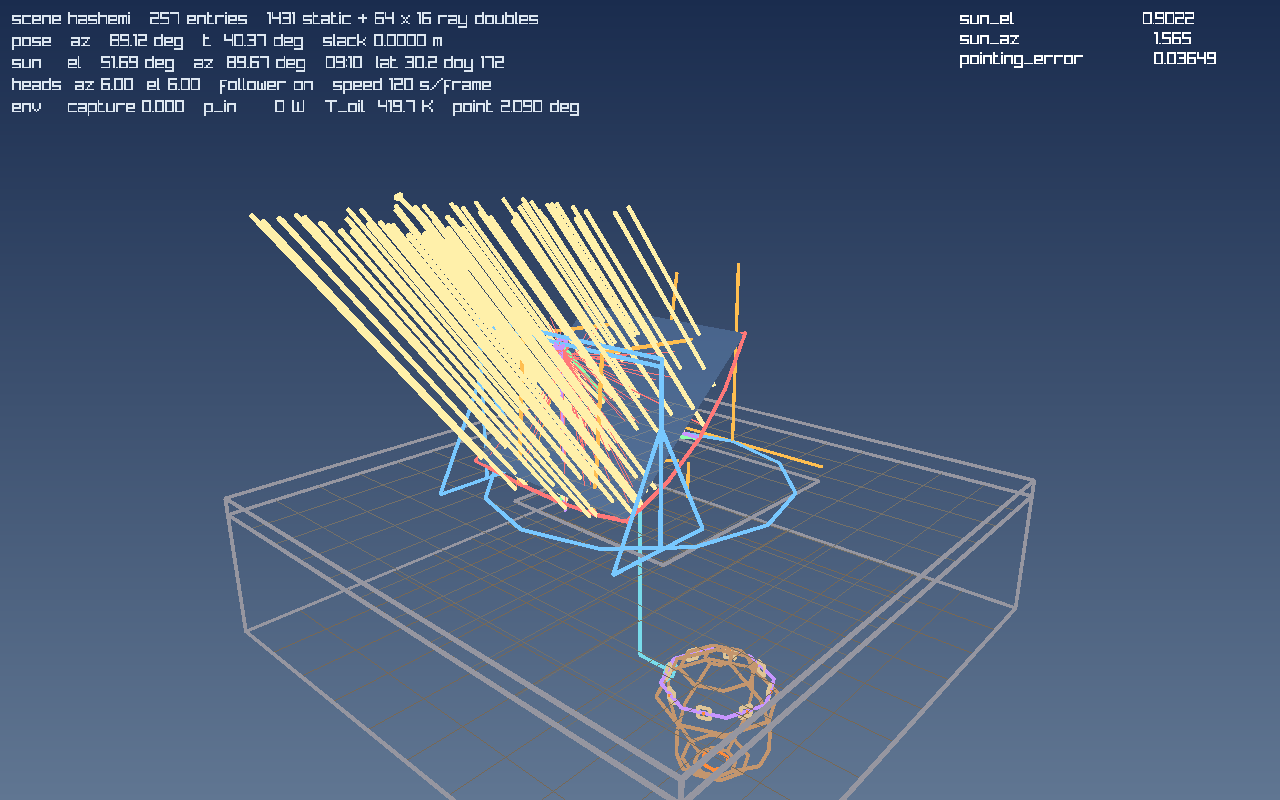
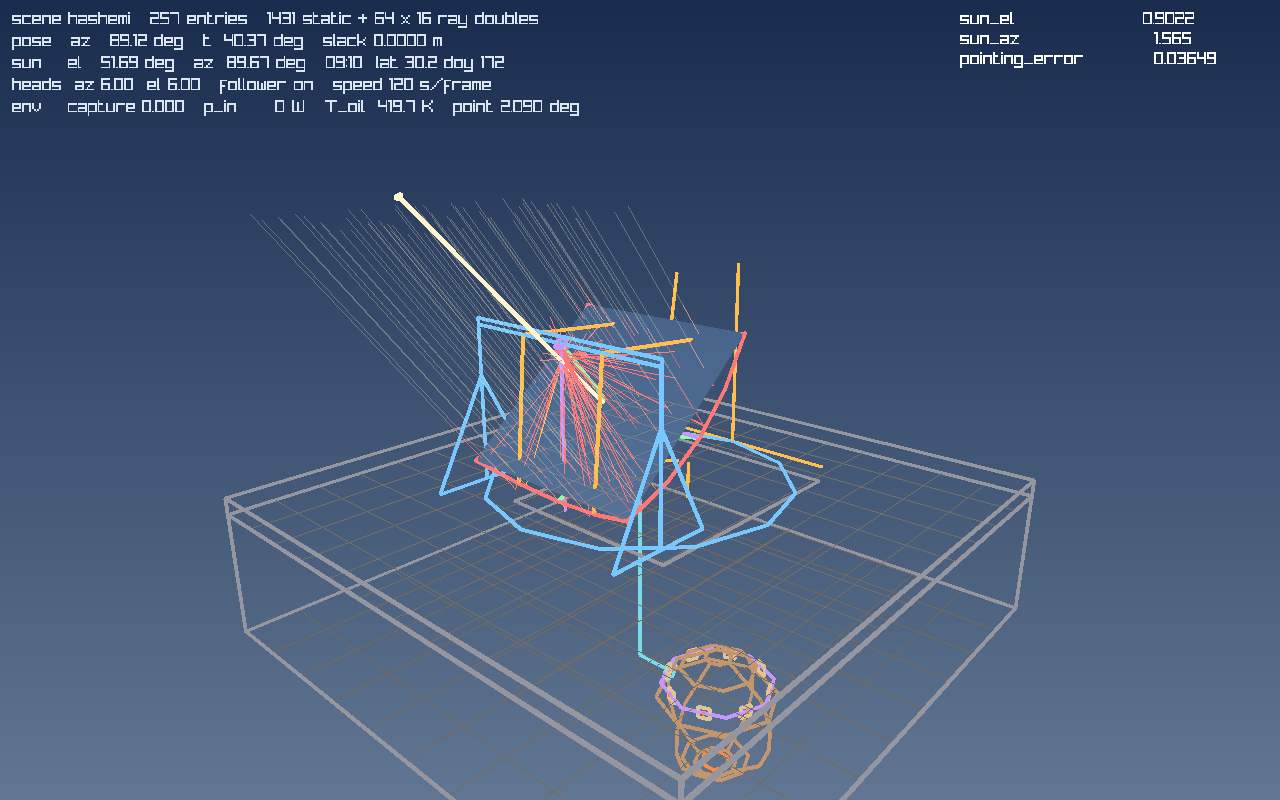
The sunlight is drawn as light: pale hairlines at low alpha, not solid tubes

Changed region(s): [[0.1875, 0.25, 0.5625, 0.6562]]

diff --git a/tutorials/hashemi_ccc/render/scene_draw.py b/tutorials/hashemi_ccc/render/scene_draw.py
@@ -20,7 +20,7 @@ PALETTE = [
     (196, 150, 110),   # 8  the pit's clay
     (255, 140, 60),    # 9  the hearth and the belt's nodes
     (150, 150, 160),   # 10 masonry: the deck, the parapet, the shadow
-    (255, 240, 170),   # 11 the sun, its rays
+    (255, 246, 205),   # 11 the sun, its rays (pale: drawn at low alpha, see draw())
     (222, 196, 150),   # 12 the roti on the wall
     (120, 220, 235),   # 13 the tunnel and the duct's mouth
 ]
@@ -244,6 +244,12 @@ class SceneWindow:
                 if k == KIND_POINT:
                     rl.draw_sphere(self.v3(r[0:3]), 0.035, col)
                 elif k == KIND_SEGMENT:
+                    # the sunlight is drawn as light, not as structure: a hairline at low alpha,
+                    # so sixty-four parallel legs read as a beam and never bury the machine
+                    if e["label"].startswith("sky") or e["label"].startswith("sun_ray"):
+                        rl.draw_line_3d(self.v3(r[0:3]), self.v3(r[3:6]),
+                                        rl.Color(col.r, col.g, col.b, 70))
+                        continue
                     # a member: a thin cylinder, so the machine reads as parts rather than
                     # hairlines.  Its radius follows the camera, because the composed scene is
                     # seen from three times as far as the machine-only one was and a 12 mm tube
